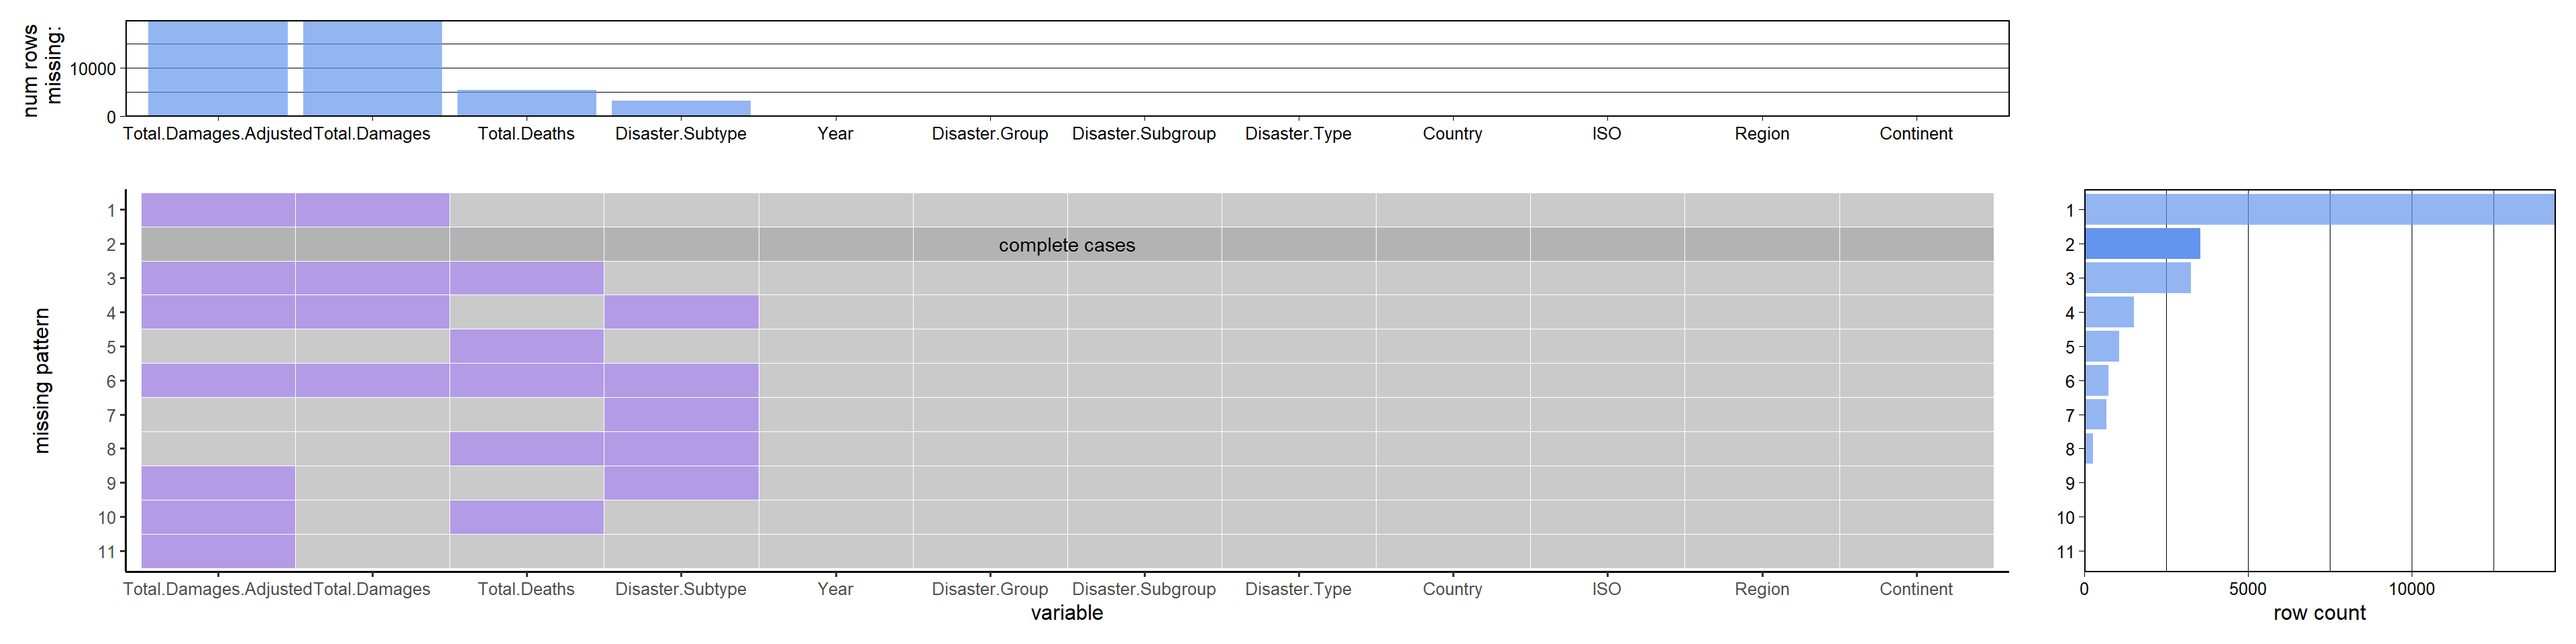
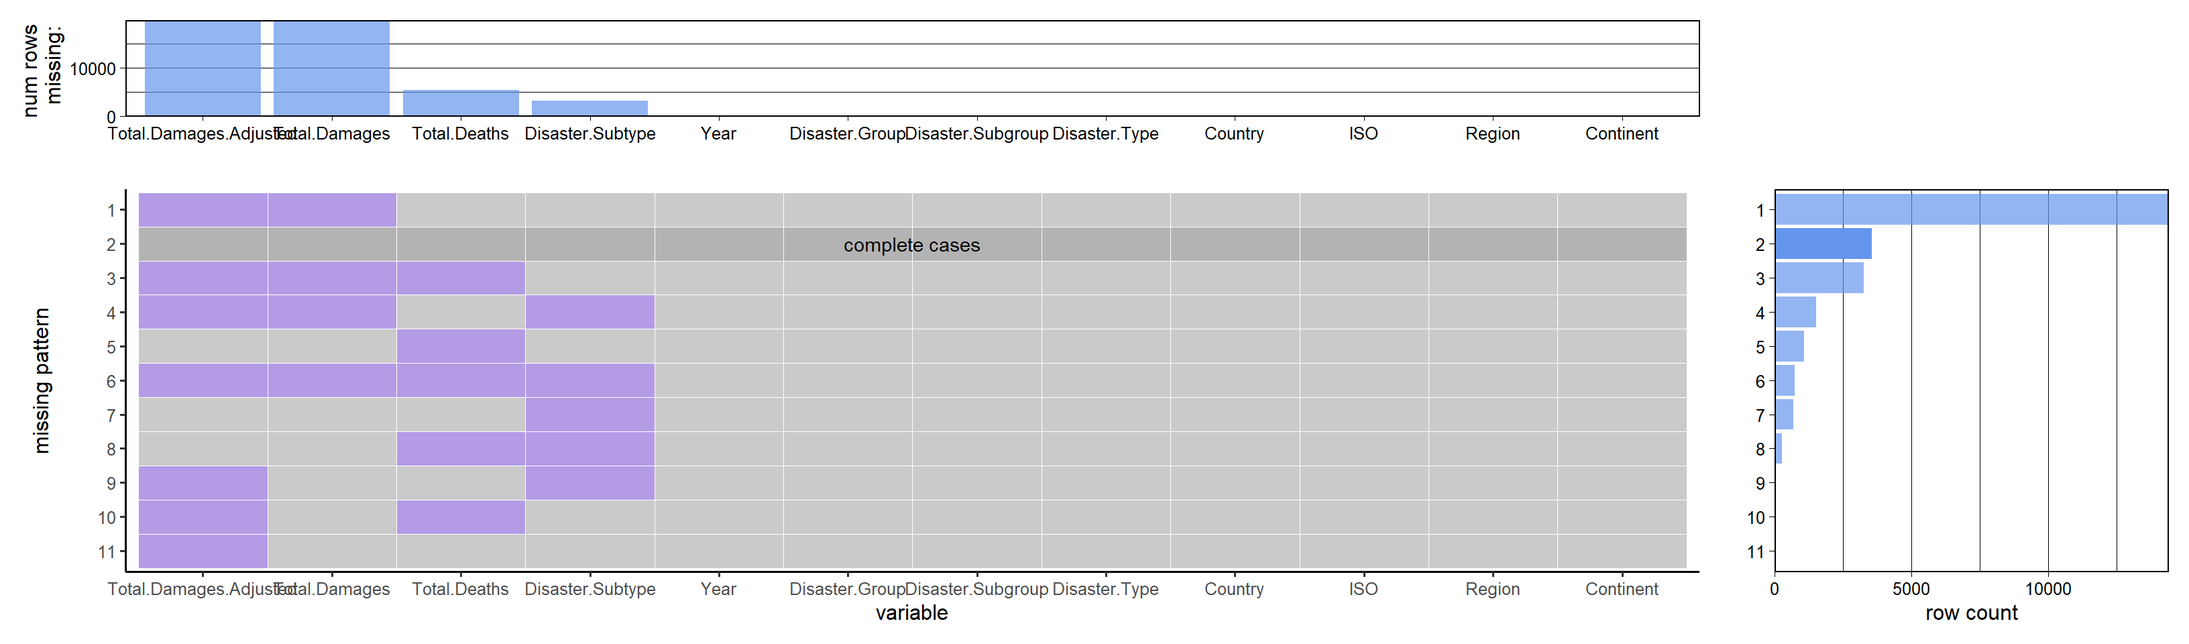
update

diff --git a/docs/missing-values.html b/docs/missing-values.html
@@ -147,7 +147,7 @@ code span.wa { color: #60a0b0; font-weight: bold; font-style: italic; } /* Warni
 </ul></li>
 <li class="chapter" data-level="3" data-path="data-transformation.html"><a href="data-transformation.html"><i class="fa fa-check"></i><b>3</b> Data transformation</a>
 <ul>
-<li class="chapter" data-level="3.1" data-path="data-transformation.html"><a href="data-transformation.html#read-gdp-data"><i class="fa fa-check"></i><b>3.1</b> Read GDP data</a></li>
+<li class="chapter" data-level="3.1" data-path="data-transformation.html"><a href="data-transformation.html#covid-data-1"><i class="fa fa-check"></i><b>3.1</b> Covid Data</a></li>
 </ul></li>
 <li class="chapter" data-level="4" data-path="missing-values.html"><a href="missing-values.html"><i class="fa fa-check"></i><b>4</b> Missing values</a>
 <ul>
@@ -161,6 +161,7 @@ code span.wa { color: #60a0b0; font-weight: bold; font-style: italic; } /* Warni
 <li class="chapter" data-level="4.3" data-path="missing-values.html"><a href="missing-values.html#gdp-dataset"><i class="fa fa-check"></i><b>4.3</b> GDP Dataset</a>
 <ul>
 <li class="chapter" data-level="4.3.1" data-path="missing-values.html"><a href="missing-values.html#for-countries"><i class="fa fa-check"></i><b>4.3.1</b> For countries</a></li>
+<li class="chapter" data-level="4.3.2" data-path="missing-values.html"><a href="missing-values.html#for-year"><i class="fa fa-check"></i><b>4.3.2</b> For Year</a></li>
 </ul></li>
 </ul></li>
 <li class="chapter" data-level="5" data-path="results.html"><a href="results.html"><i class="fa fa-check"></i><b>5</b> Results</a></li>
@@ -228,7 +229,7 @@ code span.wa { color: #60a0b0; font-weight: bold; font-style: italic; } /* Warni
 ##                    ISO                 Region              Continent 
 ##                      0                      0                      0</code></pre>
 <div class="sourceCode" id="cb7"><pre class="sourceCode r"><code class="sourceCode r"><span id="cb7-1"><a href="missing-values.html#cb7-1" aria-hidden="true" tabindex="-1"></a><span class="fu">plot_missing</span>(disaster, <span class="at">percent =</span> <span class="cn">FALSE</span>)</span></code></pre></div>
-<p><img src="finalproj_files/figure-html/unnamed-chunk-5-1.png" width="1920" /></p>
+<p><img src="finalproj_files/figure-html/unnamed-chunk-5-1.png" width="1632" /></p>
 <p>It shows that damage and adj.damage gets the most nas, then deaths and subtype.</p>
 </div>
 <div id="by-value" class="section level3 hasAnchor" number="4.1.3">
@@ -244,8 +245,8 @@ code span.wa { color: #60a0b0; font-weight: bold; font-style: italic; } /* Warni
 <span id="cb8-9"><a href="missing-values.html#cb8-9" aria-hidden="true" tabindex="-1"></a>  <span class="fu">scale_fill_viridis_d</span>() <span class="sc">+</span> <span class="co"># discrete scale</span></span>
 <span id="cb8-10"><a href="missing-values.html#cb8-10" aria-hidden="true" tabindex="-1"></a>  <span class="fu">theme_bw</span>()<span class="sc">+</span></span>
 <span id="cb8-11"><a href="missing-values.html#cb8-11" aria-hidden="true" tabindex="-1"></a>  <span class="fu">scale_y_discrete</span>(<span class="at">breaks =</span> <span class="fu">c</span>())</span></code></pre></div>
-<p><img src="finalproj_files/figure-html/unnamed-chunk-6-1.png" width="672" />
-It gives a look at the na for each value. However I don’t think that there is a relation between the nas in different variable.</p>
+<p><img src="finalproj_files/figure-html/unnamed-chunk-6-1.png" width="672" /></p>
+<p>It gives a look at the na for each value. However I don’t think that there is a relation between the nas in different variable.</p>
 </div>
 </div>
 <div id="covid-dataset" class="section level2 hasAnchor" number="4.2">
@@ -262,6 +263,32 @@ It gives a look at the na for each value. However I don’t think that there is 
 <p>This is a time series data from 1960 to 2020 for the countries around the world, we want to check the na for each countries and for each Year.</p>
 <div id="for-countries" class="section level3 hasAnchor" number="4.3.1">
 <h3><span class="header-section-number">4.3.1</span> For countries<a href="missing-values.html#for-countries" class="anchor-section" aria-label="Anchor link to header"></a></h3>
+<p>We want to see how many NA are there for each country</p>
+<div class="sourceCode" id="cb13"><pre class="sourceCode r"><code class="sourceCode r"><span id="cb13-1"><a href="missing-values.html#cb13-1" aria-hidden="true" tabindex="-1"></a>missing <span class="ot">=</span> <span class="fu">cbind</span>(GDP[,<span class="dv">1</span><span class="sc">:</span><span class="dv">2</span>], <span class="at">NAs =</span> <span class="fu">rowSums</span>(<span class="fu">matrix</span>(<span class="fu">as.numeric</span>(<span class="fu">is.na</span>(GDP[,<span class="sc">-</span><span class="fu">c</span>(<span class="dv">1</span>,<span class="dv">2</span>)])), <span class="at">nrow =</span> <span class="fu">nrow</span>(GDP)))) <span class="sc">%&gt;%</span></span>
+<span id="cb13-2"><a href="missing-values.html#cb13-2" aria-hidden="true" tabindex="-1"></a>  <span class="fu">arrange</span>(<span class="fu">desc</span>(NAs))</span>
+<span id="cb13-3"><a href="missing-values.html#cb13-3" aria-hidden="true" tabindex="-1"></a></span>
+<span id="cb13-4"><a href="missing-values.html#cb13-4" aria-hidden="true" tabindex="-1"></a><span class="fu">head</span>(missing, <span class="dv">10</span>)</span></code></pre></div>
+<pre><code>##                 Country.Name Country.Code NAs
+## 1     British Virgin Islands          VGB  61
+## 2                  Gibraltar          GIB  61
+## 3  Korea, Dem. People&#39;s Rep.          PRK  61
+## 4   St. Martin (French part)          MAF  61
+## 5  Sint Maarten (Dutch part)          SXM  53
+## 6                South Sudan          SSD  53
+## 7            Channel Islands          CHI  51
+## 8                    Curacao          CUW  51
+## 9                      Nauru          NRU  50
+## 10                    Kosovo          XKX  48</code></pre>
+<p>As we can see, the missing value are tend to appear on those small countries where data are hard to collect.</p>
+</div>
+<div id="for-year" class="section level3 hasAnchor" number="4.3.2">
+<h3><span class="header-section-number">4.3.2</span> For Year<a href="missing-values.html#for-year" class="anchor-section" aria-label="Anchor link to header"></a></h3>
+<p>Now we want to know the missing value among time</p>
+<div class="sourceCode" id="cb15"><pre class="sourceCode r"><code class="sourceCode r"><span id="cb15-1"><a href="missing-values.html#cb15-1" aria-hidden="true" tabindex="-1"></a>missing <span class="ot">=</span> <span class="fu">cbind</span>(<span class="at">Year =</span> <span class="dv">1960</span><span class="sc">:</span><span class="dv">2020</span>, <span class="at">NAs =</span> <span class="fu">colSums</span>(<span class="fu">matrix</span>(<span class="fu">as.numeric</span>(<span class="fu">is.na</span>(GDP[,<span class="sc">-</span><span class="fu">c</span>(<span class="dv">1</span>,<span class="dv">2</span>)])), <span class="at">nrow =</span> <span class="fu">nrow</span>(GDP))))</span>
+<span id="cb15-2"><a href="missing-values.html#cb15-2" aria-hidden="true" tabindex="-1"></a></span>
+<span id="cb15-3"><a href="missing-values.html#cb15-3" aria-hidden="true" tabindex="-1"></a><span class="fu">plot</span>(missing, <span class="at">main =</span> <span class="st">&#39;Missing values among year&#39;</span>)</span></code></pre></div>
+<p><img src="finalproj_files/figure-html/unnamed-chunk-11-1.png" width="672" /></p>
+<p>Here as we can see, the missing values are reducing with the year increase. That’s because with the development of the technology, we have more and easier access to collect the data.</p>
 
 </div>
 </div>

diff --git a/docs/404.html b/docs/404.html
@@ -147,7 +147,7 @@ code span.wa { color: #60a0b0; font-weight: bold; font-style: italic; } /* Warni
 </ul></li>
 <li class="chapter" data-level="3" data-path="data-transformation.html"><a href="data-transformation.html"><i class="fa fa-check"></i><b>3</b> Data transformation</a>
 <ul>
-<li class="chapter" data-level="3.1" data-path="data-transformation.html"><a href="data-transformation.html#read-gdp-data"><i class="fa fa-check"></i><b>3.1</b> Read GDP data</a></li>
+<li class="chapter" data-level="3.1" data-path="data-transformation.html"><a href="data-transformation.html#covid-data-1"><i class="fa fa-check"></i><b>3.1</b> Covid Data</a></li>
 </ul></li>
 <li class="chapter" data-level="4" data-path="missing-values.html"><a href="missing-values.html"><i class="fa fa-check"></i><b>4</b> Missing values</a>
 <ul>
@@ -161,6 +161,7 @@ code span.wa { color: #60a0b0; font-weight: bold; font-style: italic; } /* Warni
 <li class="chapter" data-level="4.3" data-path="missing-values.html"><a href="missing-values.html#gdp-dataset"><i class="fa fa-check"></i><b>4.3</b> GDP Dataset</a>
 <ul>
 <li class="chapter" data-level="4.3.1" data-path="missing-values.html"><a href="missing-values.html#for-countries"><i class="fa fa-check"></i><b>4.3.1</b> For countries</a></li>
+<li class="chapter" data-level="4.3.2" data-path="missing-values.html"><a href="missing-values.html#for-year"><i class="fa fa-check"></i><b>4.3.2</b> For Year</a></li>
 </ul></li>
 </ul></li>
 <li class="chapter" data-level="5" data-path="results.html"><a href="results.html"><i class="fa fa-check"></i><b>5</b> Results</a></li>
